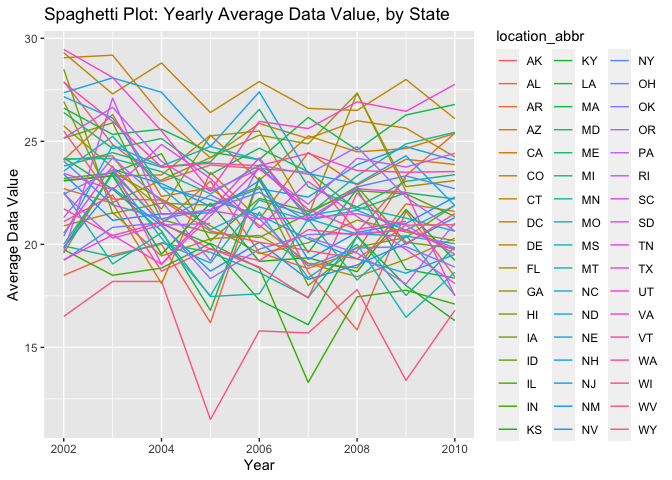
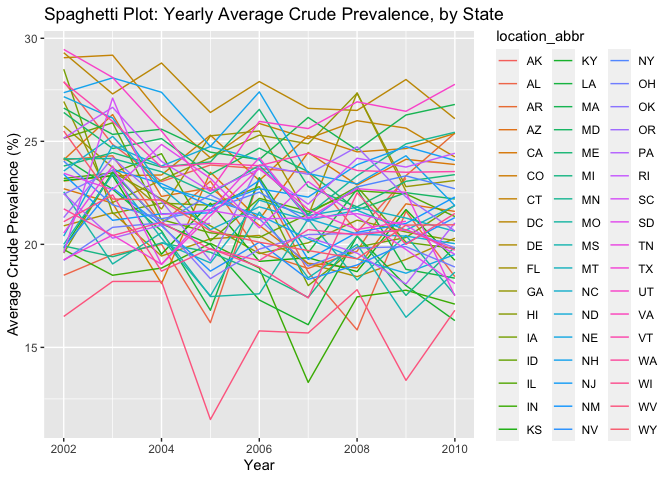
Q2: Updated some labels & comments; noticed that the data values in question 2 are of "Crude Prevalence" type, in "%" unit.

Changed region(s): [[0.4375, 0.0, 0.75, 0.0625], [0.0, 0.2812, 0.0312, 0.7188]]

diff --git a/p8105_hw3_xl3214.md b/p8105_hw3_xl3214.md
@@ -163,18 +163,21 @@ brfss <- brfss_smart2010 |>
   mutate(response = factor(response, 
                            levels=c("Poor", "Fair", "Good", "Very good", "Excellent"), ordered=TRUE)) |>
   rename(resp_id = respid, location_abbr = locationabbr, location_desc = locationdesc)
+
 head(brfss)
 sum(is.na(brfss))
-unique(pull(brfss, topic))
-unique(pull(brfss, response))
 ```
 
-The BRFSS dataset has 10625 observations and 23 variables. Variables
-include: year, location_abbr, location_desc, class, topic, question,
-response, sample_size, data_value, confidence_limit_low,
-confidence_limit_high, display_order, data_value_unit, data_value_type,
-data_value_footnote_symbol, data_value_footnote, data_source, class_id,
-topic_id, location_id, question_id, resp_id, geo_location.
+After cleaning, the BRFSS dataset has 10625 observations and 23
+variables. Variables include: year, location_abbr, location_desc, class,
+topic, question, response, sample_size, data_value,
+confidence_limit_low, confidence_limit_high, display_order,
+data_value_unit, data_value_type, data_value_footnote_symbol,
+data_value_footnote, data_source, class_id, topic_id, location_id,
+question_id, resp_id, geo_location. The type of data value in this
+dataset is Crude Prevalence, and the unit of data value is %. The topic
+of focus is Overall Health, question is How is your general health?, and
+responses include Excellent, Very good, Good, Fair, Poor.
 
 1.  In 2002, which states were observed at 7 or more locations? What
     about in 2010?
@@ -183,6 +186,9 @@ topic_id, location_id, question_id, resp_id, geo_location.
 
 - In 2010, CA, FL, MA, MD, NC, NE, NJ, NY, OH, TX, WA states were
   observed at 7 or more locations.
+
+- From 2002 to 2010, there is a significant increase in the number of
+  states that have 7 or more observation locations.
 
 2.  Construct a dataset that is limited to Excellent responses, and
     contains, year, state, and a variable that averages the data_value
@@ -220,12 +226,12 @@ topic_id, location_id, question_id, resp_id, geo_location.
 
 ![](p8105_hw3_xl3214_files/figure-gfm/Q2-%20Spaghetti%20Plot-1.png)<!-- -->
 
-- The average data values across locations within a state fluctuates
-  across years, but overall remains fairly stable. There is no
-  distinguishable trend in the average data values across years.
+- The average crude prevalence across locations within a state
+  fluctuates across years, but overall remains fairly stable. There is
+  no distinguishable trend in the average data values across years.
 
-- Among all data available, UT in 2002 has the highest average data
-  value, WV in 2005 has the lowest average data value.
+- Among all data available, UT in 2002 has the highest average crude
+  prevalence, WV in 2005 has the lowest average crude prevalence.
 
 3.  Make a two-panel plot showing, for the years 2006, and 2010,
     distribution of data_value for responses (“Poor” to “Excellent”)
@@ -234,18 +240,18 @@ topic_id, location_id, question_id, resp_id, geo_location.
 ![](p8105_hw3_xl3214_files/figure-gfm/Q2-%20Two-panel%20plot-1.png)<!-- -->![](p8105_hw3_xl3214_files/figure-gfm/Q2-%20Two-panel%20plot-2.png)<!-- -->
 
 - Based on the plots, we can see that *Poor* responses correspond to the
-  lowest data values across all locations in NY State for both 2006 and
-  2010, and as the order of responses increases towards *Very good*, the
-  data values also increase. However, for responses of *Excellent*, we
-  see a decreased data value distribution compared to the previous
-  *Good* and *Very good*.
+  lowest crude prevalence across all locations in NY State for both 2006
+  and 2010, and as the order of responses increases towards *Very good*,
+  the crude prevalence also increases. However, for responses of
+  *Excellent*, we see a decreased crude prevalence distribution compared
+  to the previous *Good* and *Very good*.
 
 - We can see that in 2006, responses *Good* and *Very good* have
-  comparable data value distributions, although the median for *Very
-  good* is slightly higher. When it comes to 2010, the data value for
-  responses *Very good* is apparently higher than that of *Good*.
-  Responses *Fair* and *Poor* in 2010 have wider spread compared to that
-  of 2006.
+  comparable crude prevalence distributions, although the median for
+  *Very good* is slightly higher. When it comes to 2010, the crude
+  prevalence for responses *Very good* is apparently higher than that of
+  *Good*. Responses *Fair* and *Poor* in 2010 have wider spread compared
+  to that of 2006.
 
 ## Question 3
 
